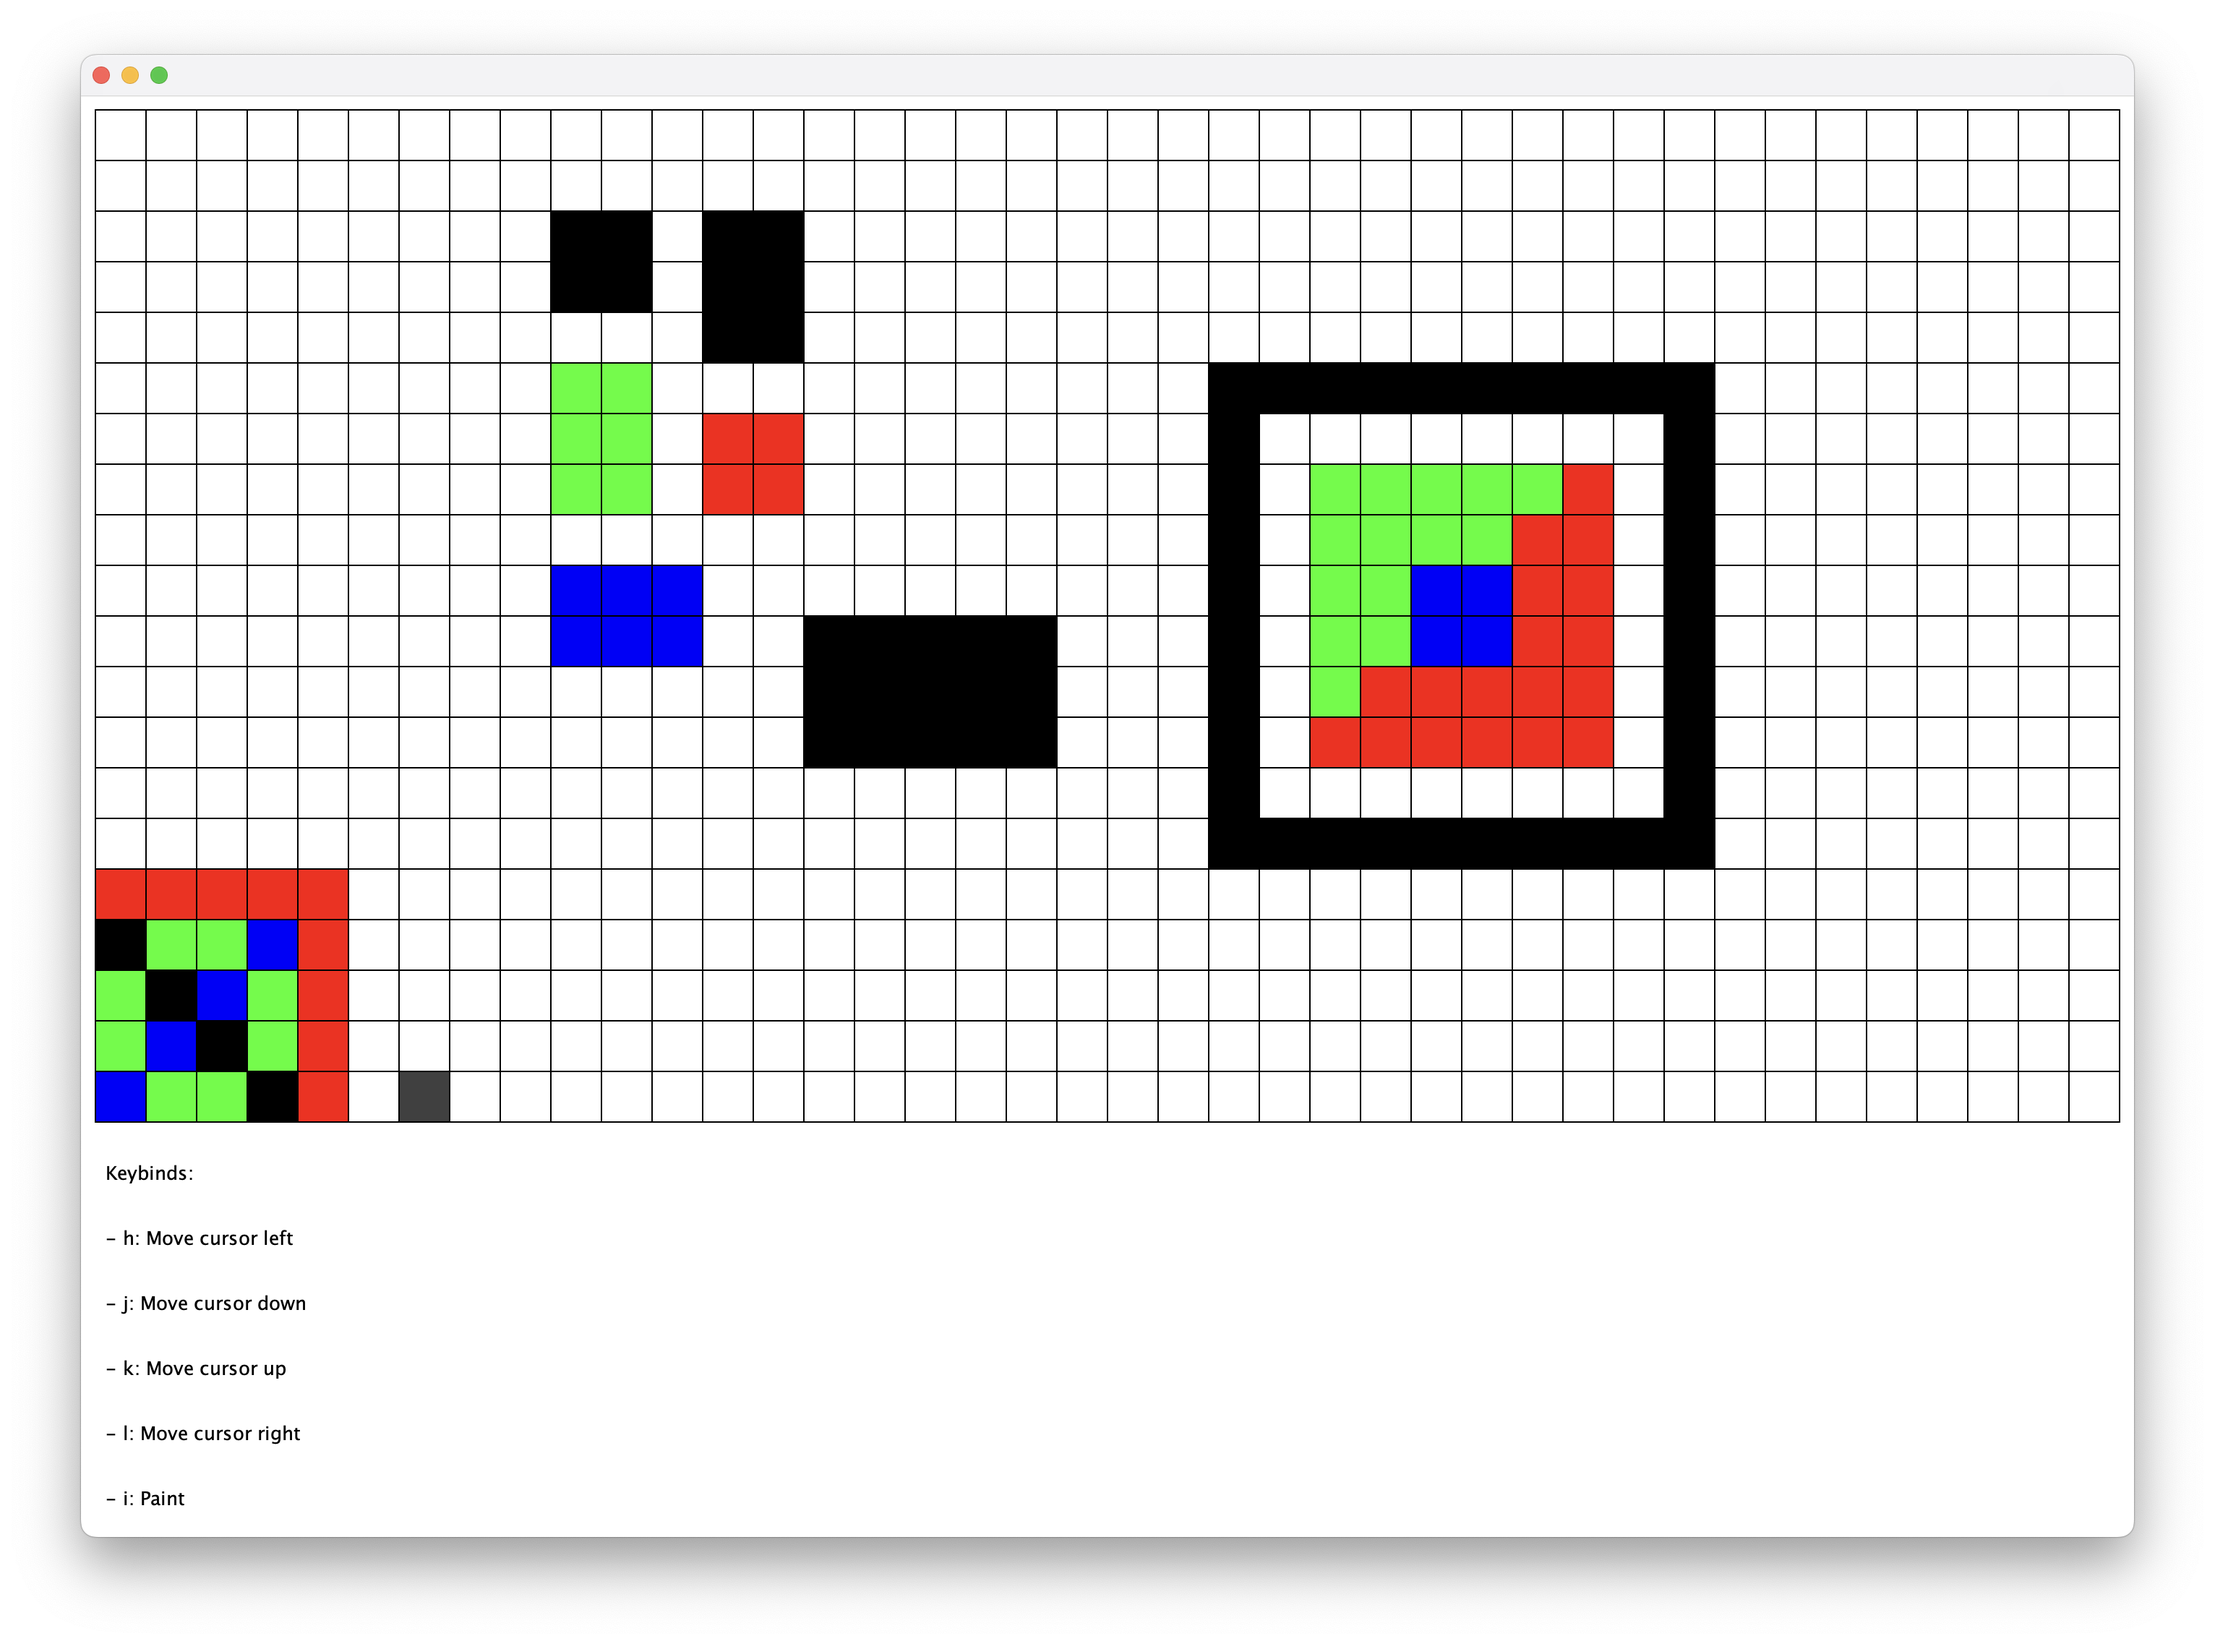
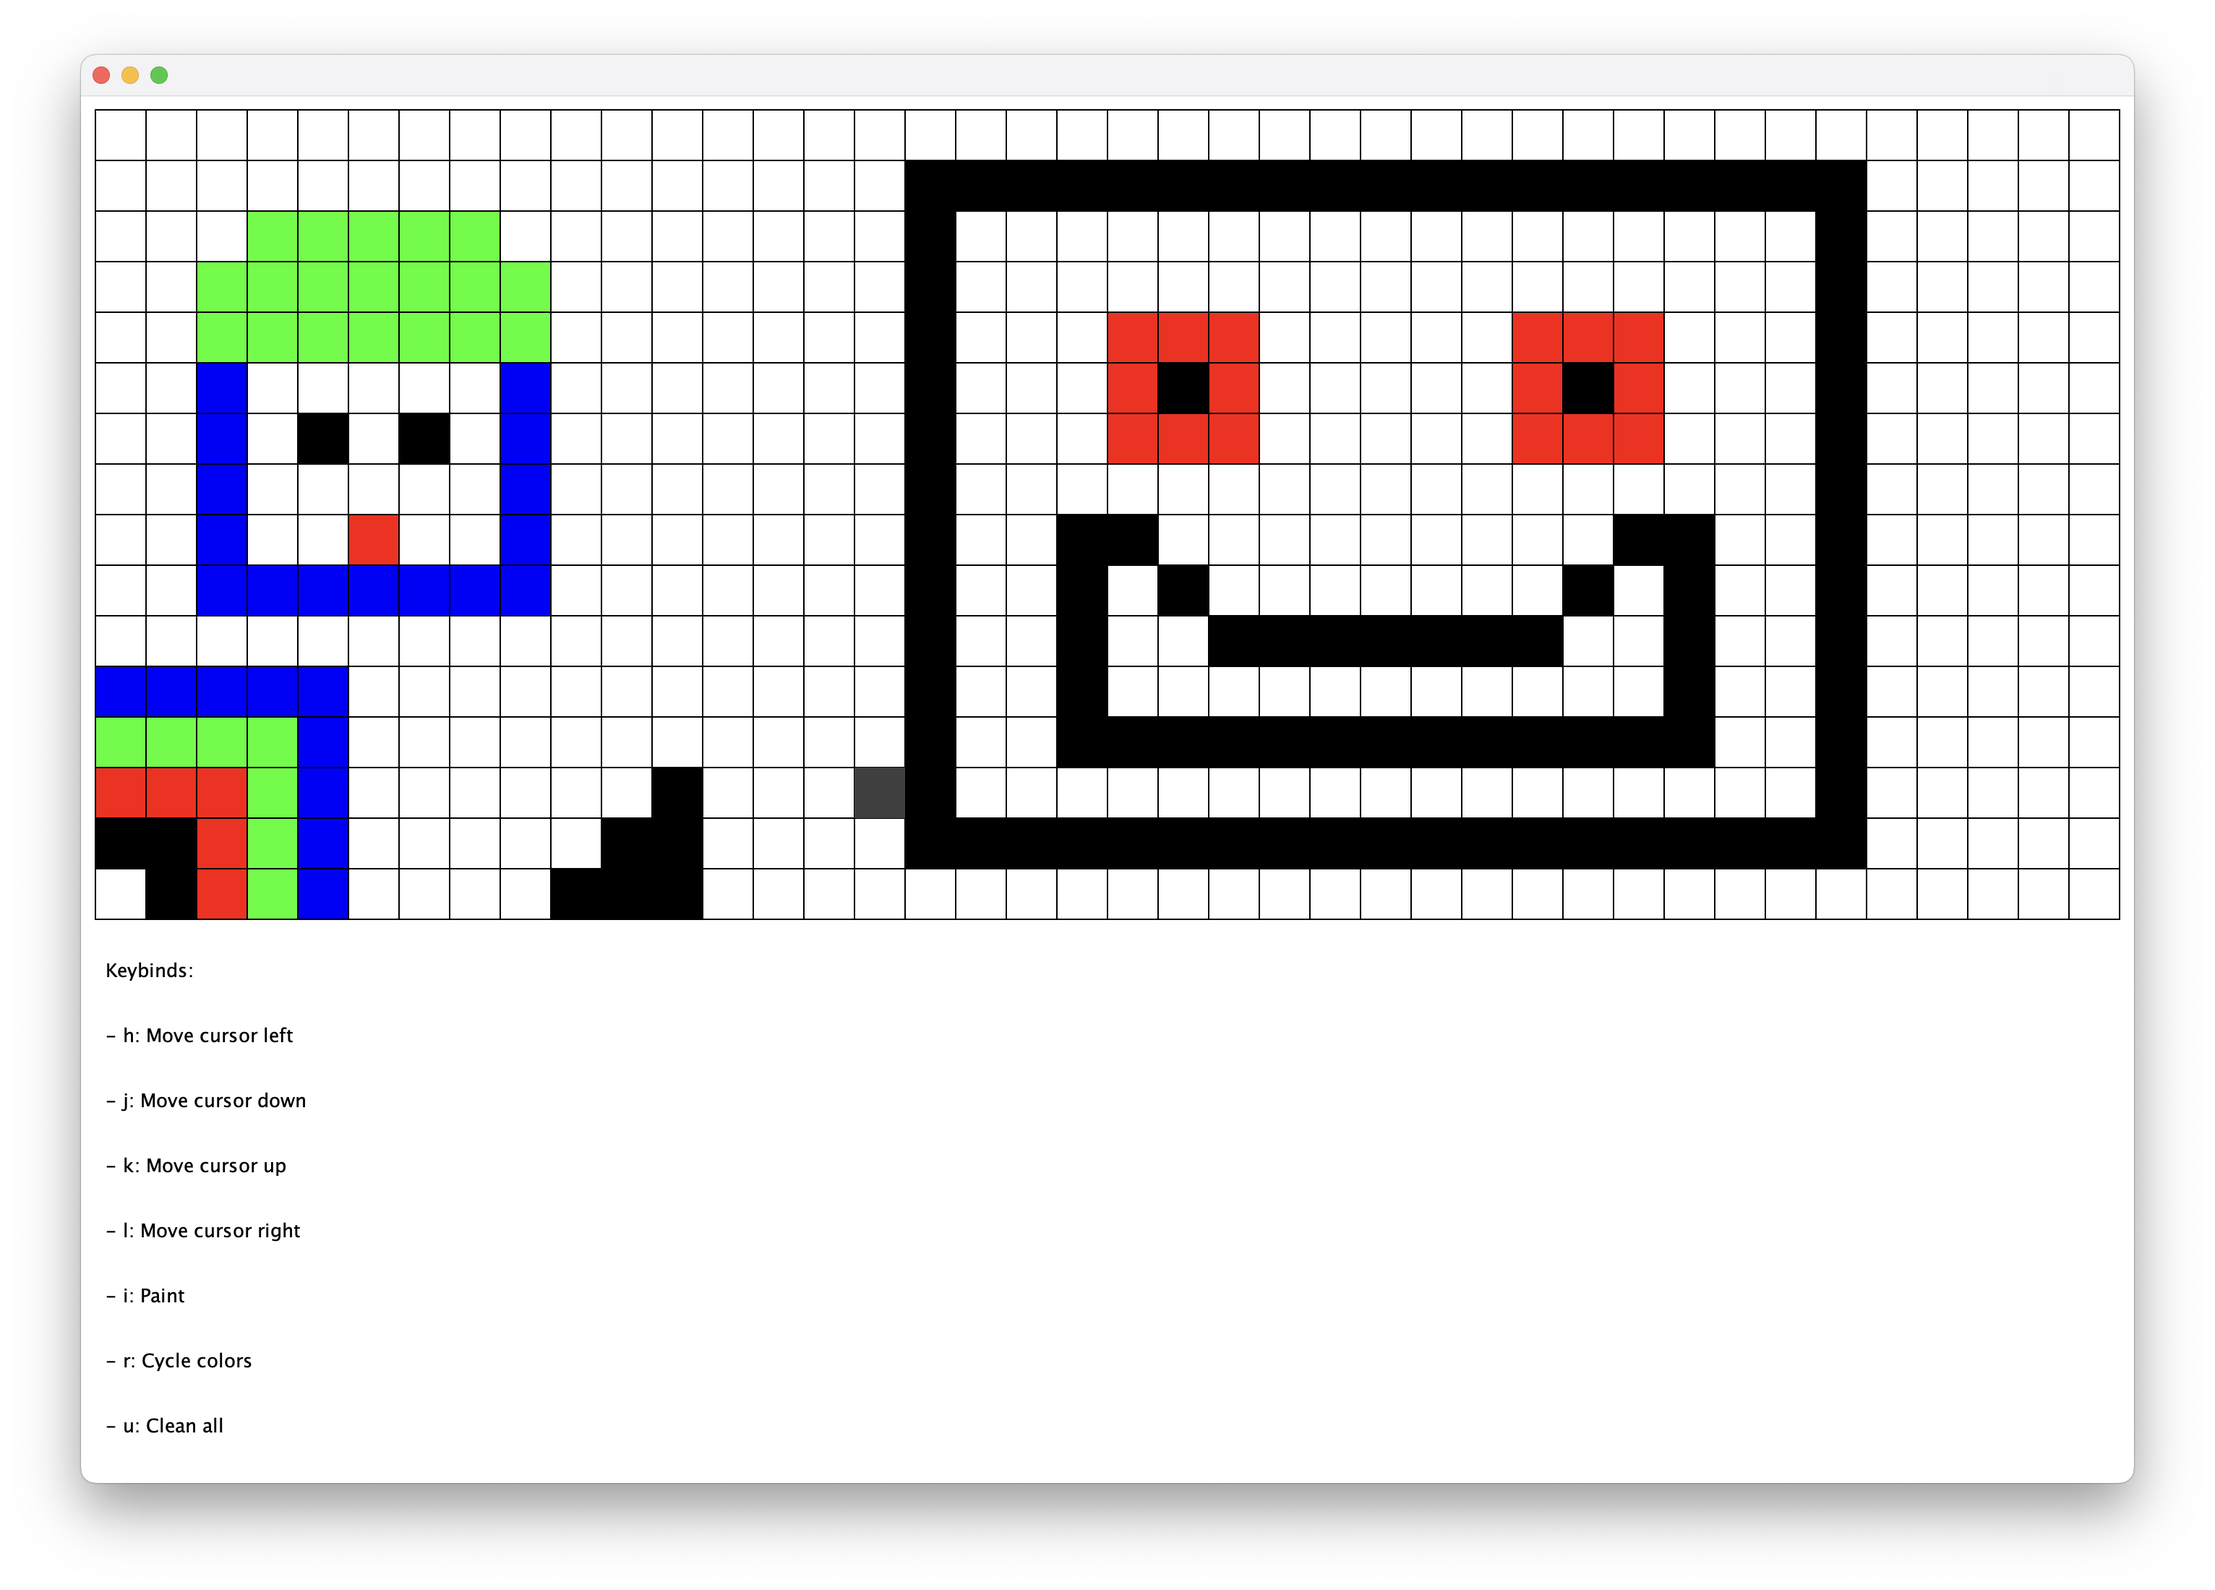
refactored eventhandler, changed screenshot

Changed region(s): [[0.031, 0.0927, 0.8681, 0.9273], [0.248, 0.4636, 0.3411, 0.5873], [0.031, 0.0309, 0.062, 0.0618]]

diff --git a/src/org/codeforall/ooptimus/EventHandler.java b/src/org/codeforall/ooptimus/EventHandler.java
@@ -1,8 +1,6 @@
 package org.codeforall.ooptimus;
 
-import org.academiadecodigo.simplegraphics.graphics.Rectangle;
-import org.academiadecodigo.simplegraphics.graphics.Color;
-import org.academiadecodigo.simplegraphics.graphics.Text;
+import org.academiadecodigo.simplegraphics.graphics.*;
 import org.academiadecodigo.simplegraphics.keyboard.*;
 
 import java.util.ArrayList;
@@ -14,8 +12,9 @@ public class EventHandler implements KeyboardHandler, Grid {
     private static final Color CURSOR_COLOR = Color.DARK_GRAY;
     private static final Color[] RECTANGLE_COLORS = {Color.BLACK, Color.RED, Color.GREEN, Color.BLUE};
     private int colorIndex = 0;
-
     private int cols, rows, customWidth, customHeight;
+    private int startX = PADDING;
+    private int startY = PADDING;
     private Rectangle cursorRectangle;
     private List<Rectangle> newRectangles = new ArrayList<>();
 
@@ -33,9 +32,6 @@ public class EventHandler implements KeyboardHandler, Grid {
     }
 
     private void createGrid() {
-        int startX = PADDING;
-        int startY = PADDING;
-
         for (int row = 0; row < rows; row++) {
             for (int col = 0; col < cols; col++) {
                 Rectangle rectangle = new Rectangle(startX + col * customWidth, startY + row * customHeight, customWidth, customHeight);
@@ -43,7 +39,10 @@ public class EventHandler implements KeyboardHandler, Grid {
                 rectangle.draw();
             }
         }
+        displayKeybinds();
+    }
 
+    private void displayKeybinds() {
         int keyInfoStartY = startY + rows * customHeight + PADDING * 2;
         int textSpacing = 25;
         int keyRectangleHeight = textSpacing + PADDING * 2;
@@ -62,7 +61,6 @@ public class EventHandler implements KeyboardHandler, Grid {
         for (int i = 0; i < keyInfo.length; i++) {
             Rectangle keyRectangle = new Rectangle(startX, keyInfoStartY + i * keyRectangleHeight, cols * customWidth, keyRectangleHeight);
             keyRectangle.setColor(Color.WHITE);
-            keyRectangle.draw();
             keyRectangle.fill();
 
             Text keyText = new Text(startX + PADDING, keyInfoStartY + i * keyRectangleHeight + PADDING, keyInfo[i]);
@@ -75,7 +73,6 @@ public class EventHandler implements KeyboardHandler, Grid {
     private void createCursor() {
         cursorRectangle = new Rectangle(PADDING, PADDING, customWidth, customHeight);
         cursorRectangle.setColor(CURSOR_COLOR);
-        cursorRectangle.draw();
         cursorRectangle.fill();
     }
 
@@ -94,27 +91,13 @@ public class EventHandler implements KeyboardHandler, Grid {
     public void keyPressed(KeyboardEvent event) {
         int moveDistance = customWidth;
         switch (event.getKey()) {
-            case KeyboardEvent.KEY_H:
-                moveCursor(-moveDistance, 0);
-                break;
-            case KeyboardEvent.KEY_J:
-                moveCursor(0, moveDistance);
-                break;
-            case KeyboardEvent.KEY_K:
-                moveCursor(0, -moveDistance);
-                break;
-            case KeyboardEvent.KEY_L:
-                moveCursor(moveDistance, 0);
-                break;
-            case KeyboardEvent.KEY_I:
-                drawNewRectangle();
-                break;
-            case KeyboardEvent.KEY_U:
-                cleanNewRectangles();
-                break;
-            case KeyboardEvent.KEY_R:
-                changeRectangleColor();
-                break;
+            case KeyboardEvent.KEY_H -> moveCursor(-moveDistance, 0);
+            case KeyboardEvent.KEY_J -> moveCursor(0, moveDistance);
+            case KeyboardEvent.KEY_K -> moveCursor(0, -moveDistance);
+            case KeyboardEvent.KEY_L -> moveCursor(moveDistance, 0);
+            case KeyboardEvent.KEY_I -> drawNewRectangle();
+            case KeyboardEvent.KEY_U -> cleanNewRectangles();
+            case KeyboardEvent.KEY_R -> changeRectangleColor();
         }
     }
 
@@ -127,16 +110,19 @@ public class EventHandler implements KeyboardHandler, Grid {
         int newPosX = cursorRectangle.getX() + dx;
         int newPosY = cursorRectangle.getY() + dy;
 
-        if (newPosX >= PADDING && newPosX + cursorRectangle.getWidth() <= PADDING + cols * customWidth &&
-                newPosY >= PADDING && newPosY + cursorRectangle.getHeight() <= PADDING + rows * customHeight) {
+        if (isValidCursorPosition(newPosX, newPosY)) {
             cursorRectangle.translate(dx, dy);
         }
+    }
+
+    private boolean isValidCursorPosition(int x, int y) {
+        return x >= PADDING && x + cursorRectangle.getWidth() <= PADDING + cols * customWidth &&
+                y >= PADDING && y + cursorRectangle.getHeight() <= PADDING + rows * customHeight;
     }
 
     private void drawNewRectangle() {
         Rectangle newRectangle = new Rectangle(cursorRectangle.getX(), cursorRectangle.getY(), cursorRectangle.getWidth(), cursorRectangle.getHeight());
         newRectangle.setColor(RECTANGLE_COLORS[colorIndex]);
-        newRectangle.draw();
         newRectangle.fill();
         newRectangles.add(newRectangle);
 
@@ -145,14 +131,11 @@ public class EventHandler implements KeyboardHandler, Grid {
 
     private void refreshCursor() {
         cursorRectangle.delete();
-        cursorRectangle.draw();
         cursorRectangle.fill();
     }
 
     private void cleanNewRectangles() {
-        for (Rectangle rect : newRectangles) {
-            rect.delete();
-        }
+        newRectangles.forEach(Rectangle::delete);
         newRectangles.clear();
     }
 

diff --git a/src/org/codeforall/ooptimus/Main.java b/src/org/codeforall/ooptimus/Main.java
@@ -3,7 +3,7 @@ package org.codeforall.ooptimus;
 public class Main {
     public static void main(String[] args) {
 
-        Game g = new Game(GridType.SIMPLE_GFX,40,20);
+        Game g = new Game(GridType.SIMPLE_GFX,40,16);
         System.out.println("COMMANDS: \n h left \n j down \n k up \n l right \n i paint \n r cycle color \n u clean all");
         g.init();
 
